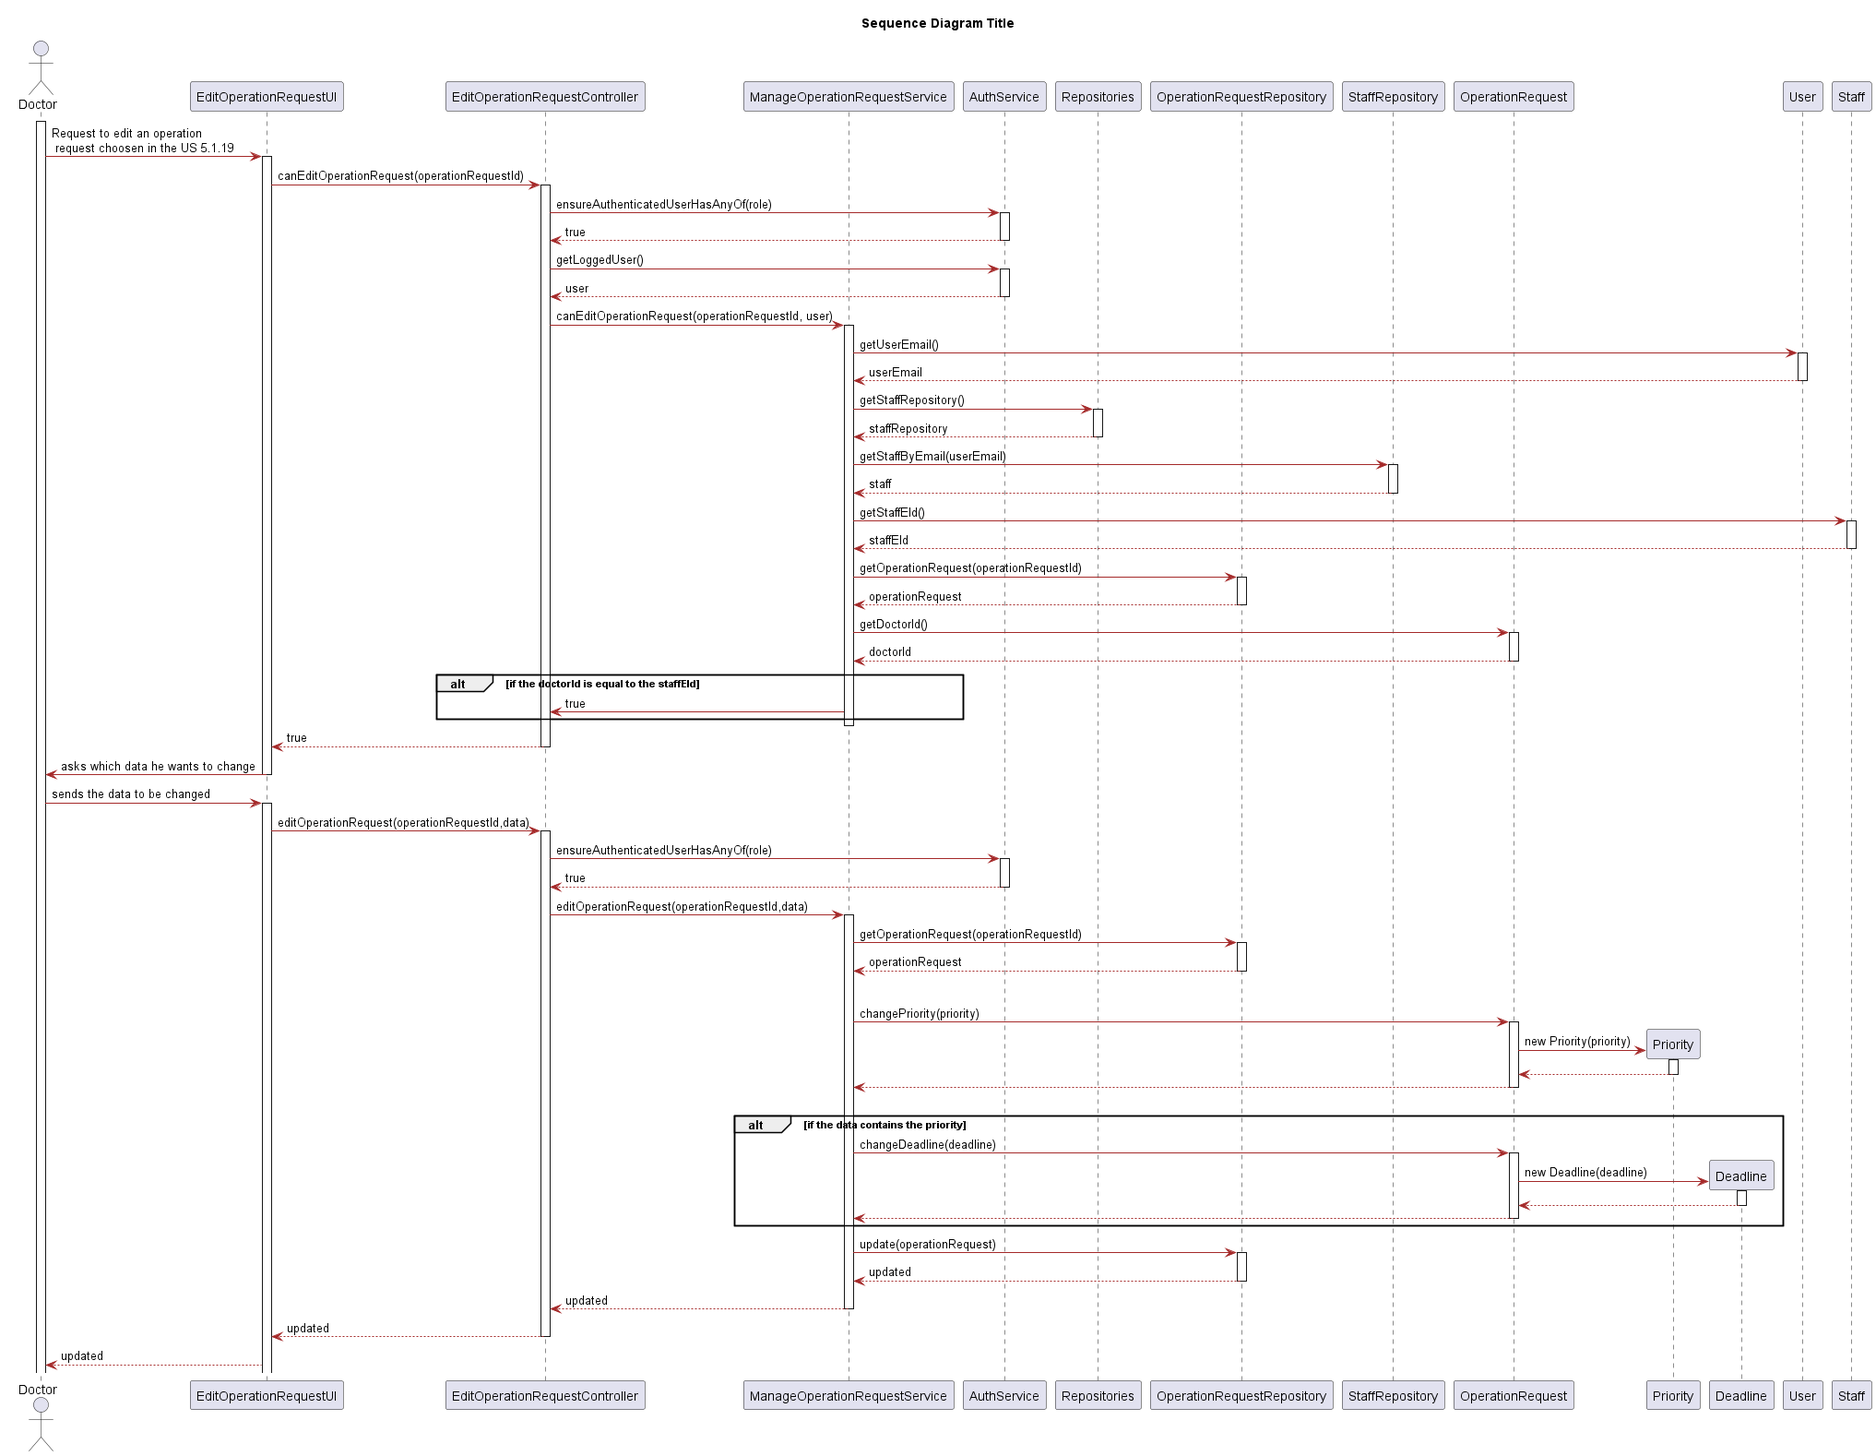
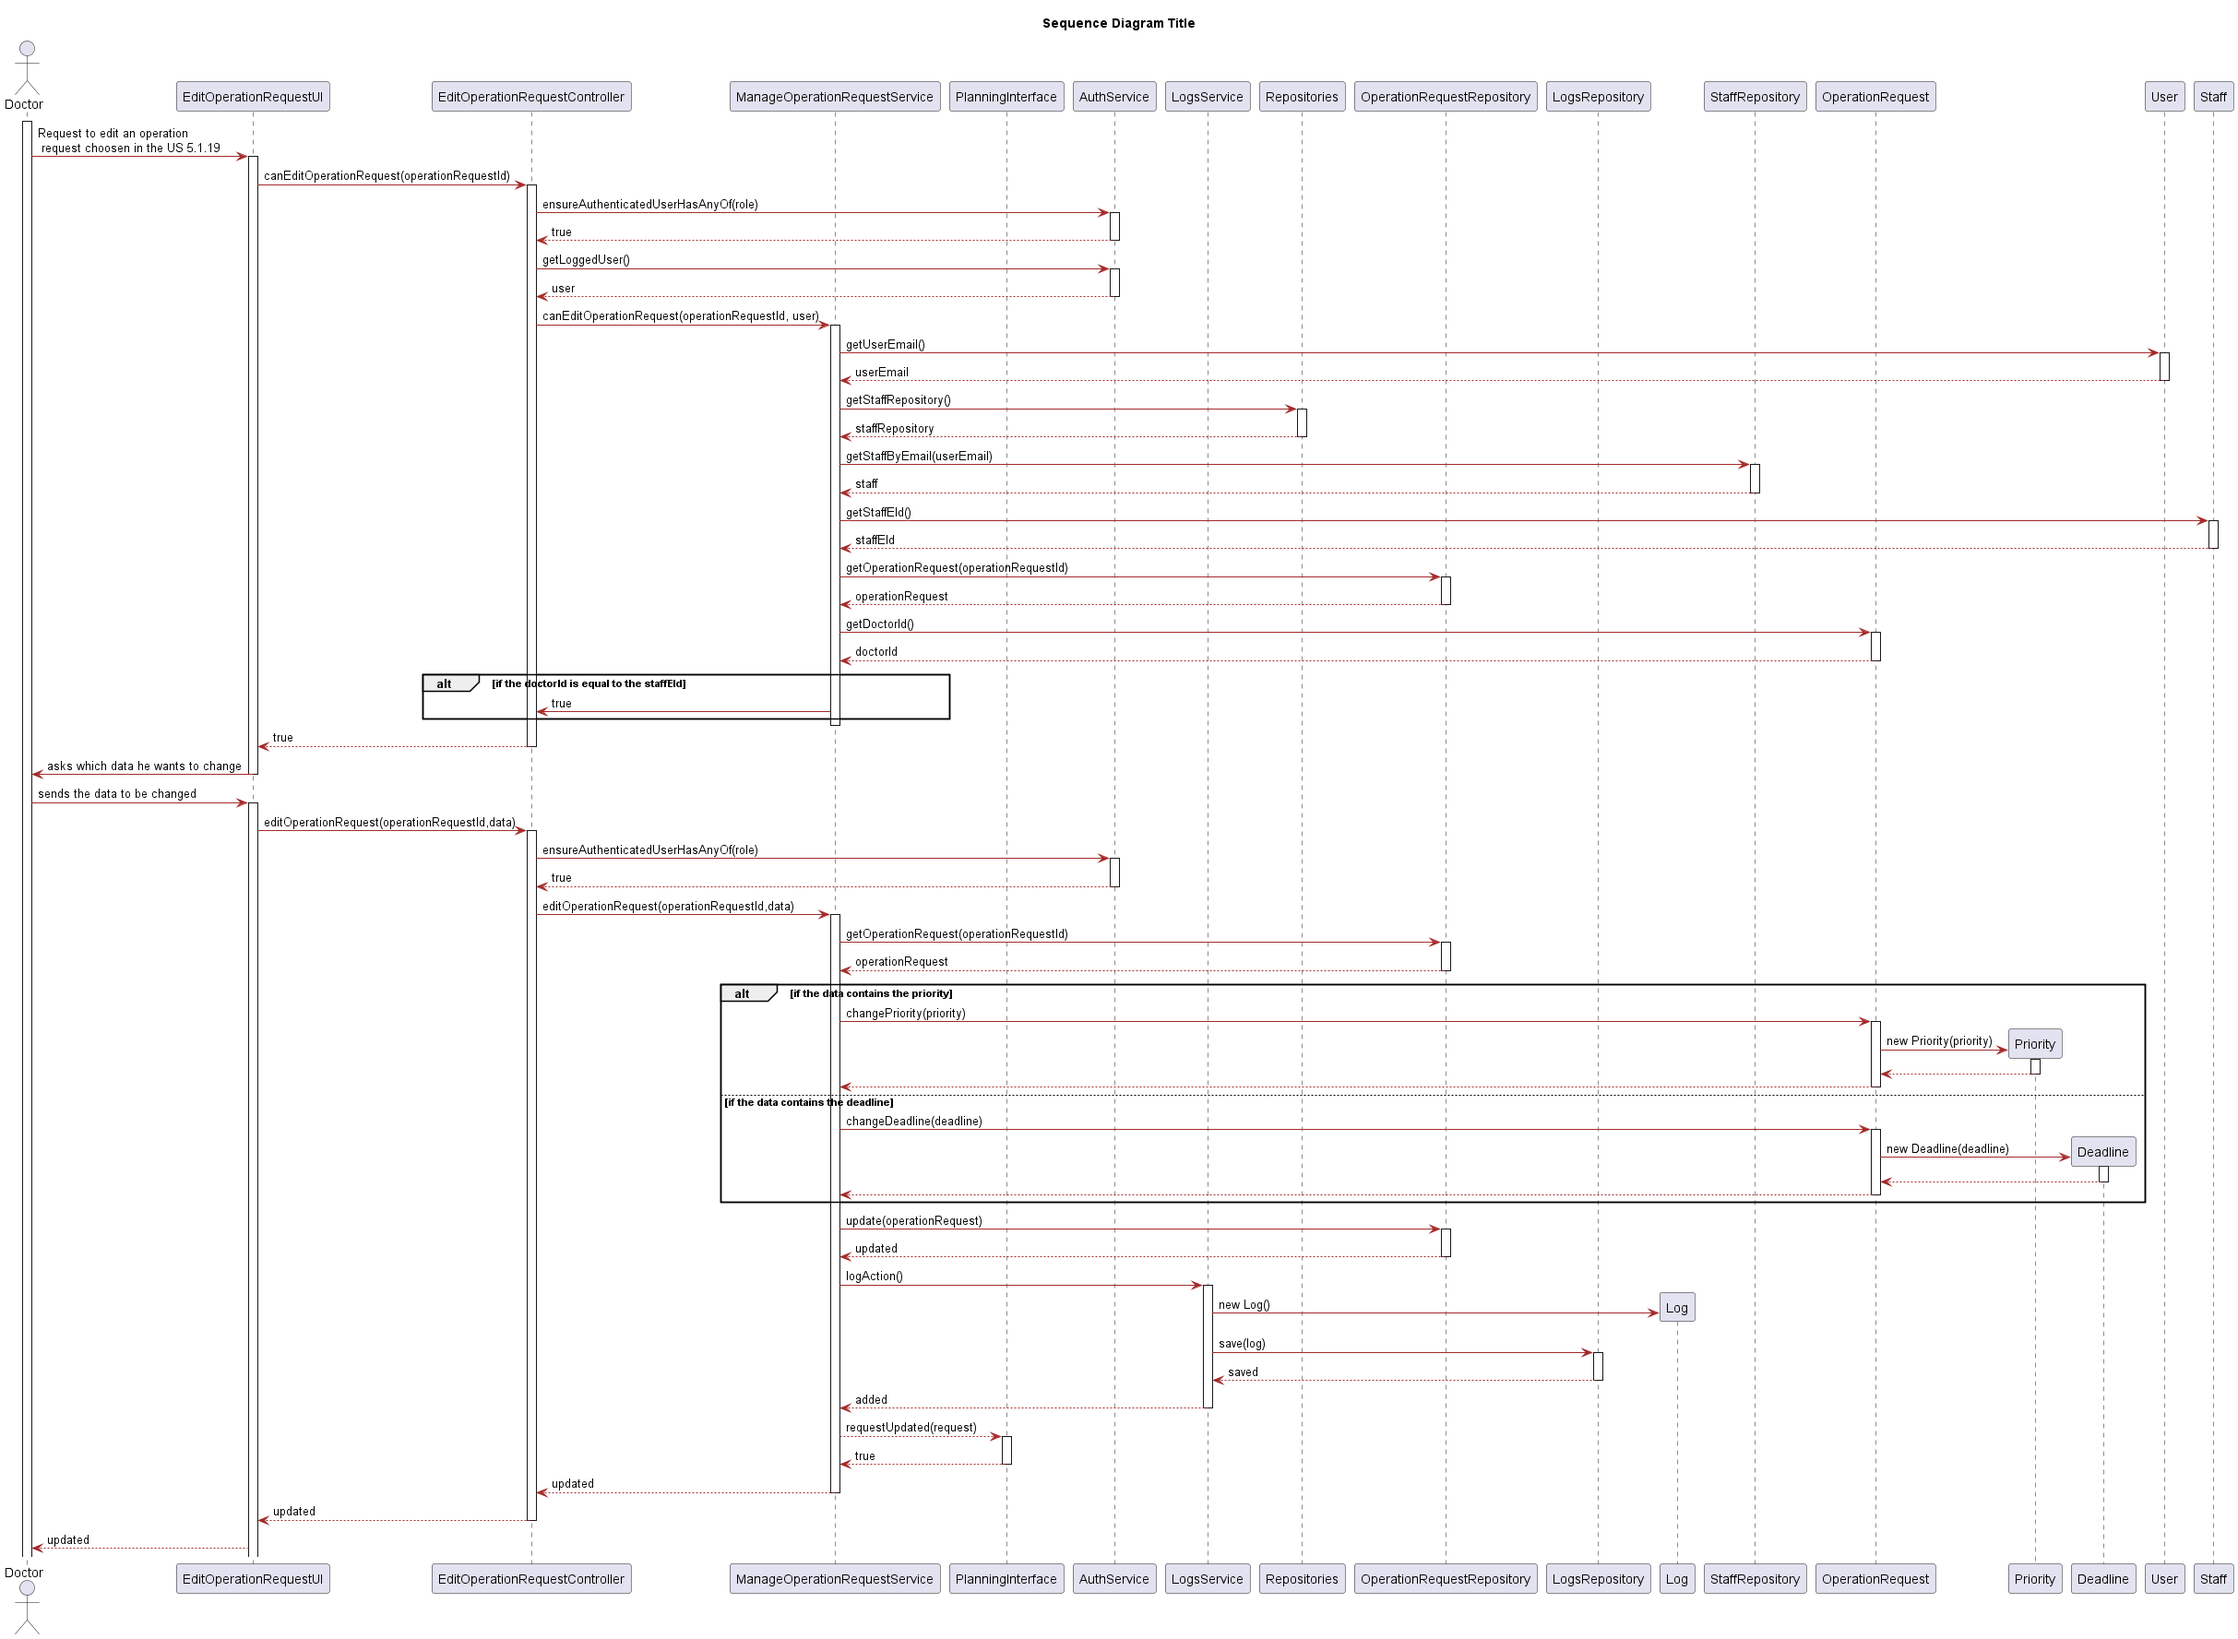
#20 Add log function to the diagrams

diff --git a/Docs/Sprint1/UserStories/LAPR5/us5117/readMe.md b/Docs/Sprint1/UserStories/LAPR5/us5117/readMe.md
@@ -23,6 +23,10 @@ This user story depends of US 5.1.19, because doctor needs to list all the opera
 
 ![analyzis ](analyzis\png\analyzis.svg "analyzis")
 
+We also will need to regist the operation request changes, so we'll use Logs
+
+![logs ](analyzis\png\logs.svg "logs")
+
 ## 4. Design
 
 
